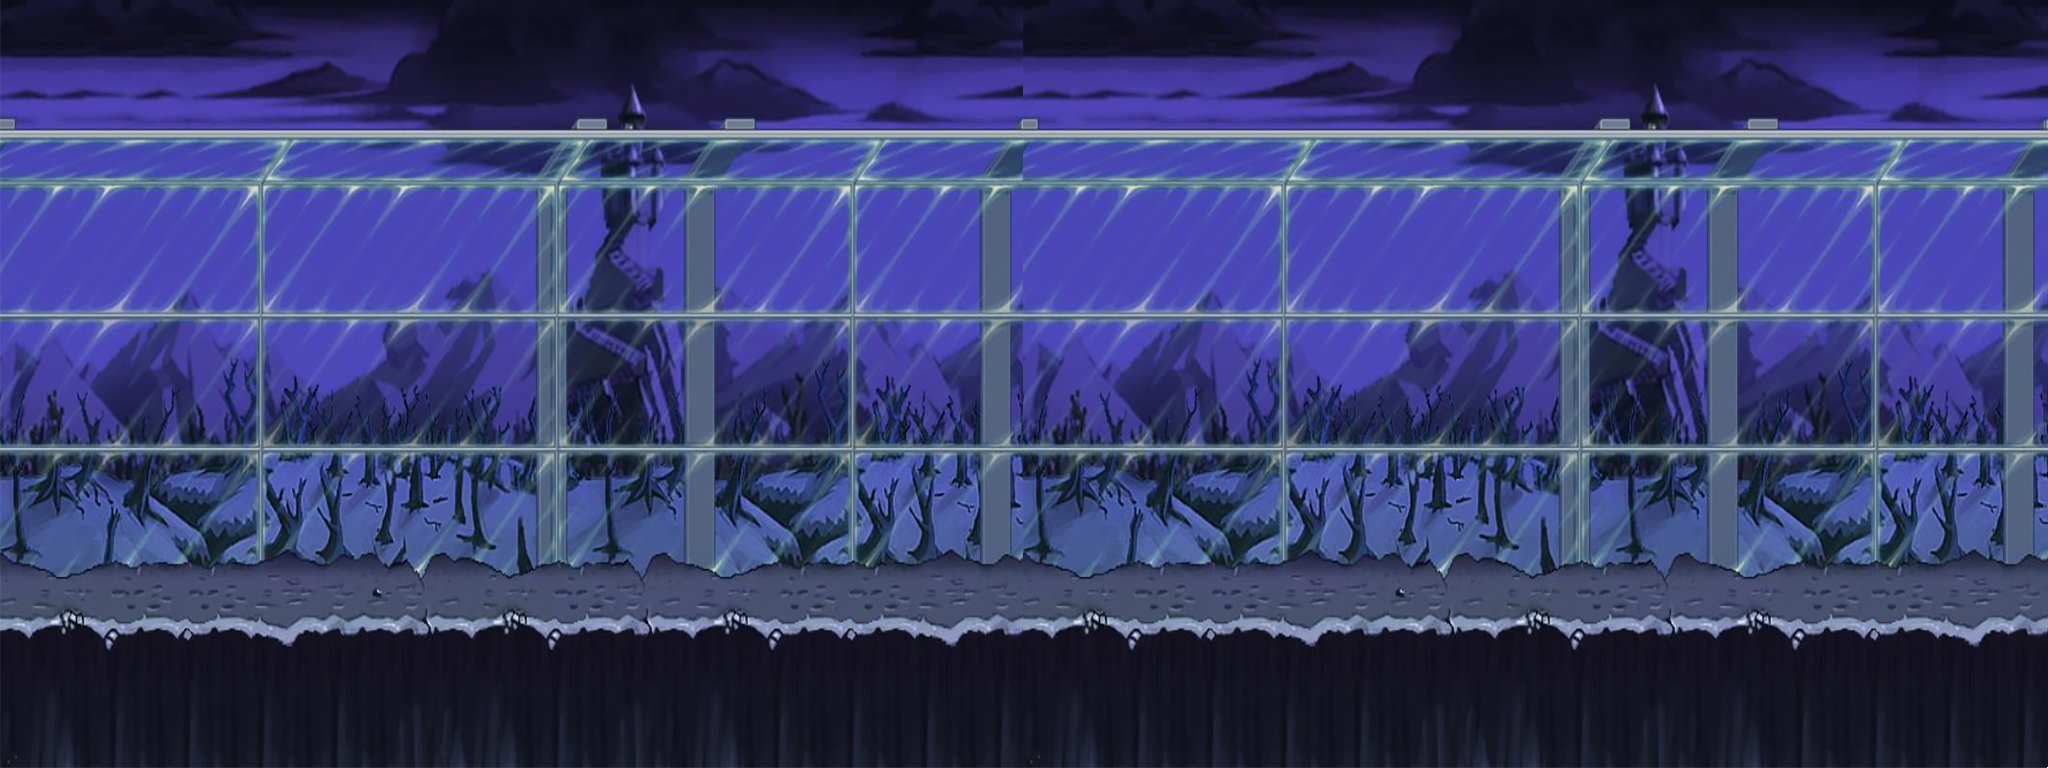
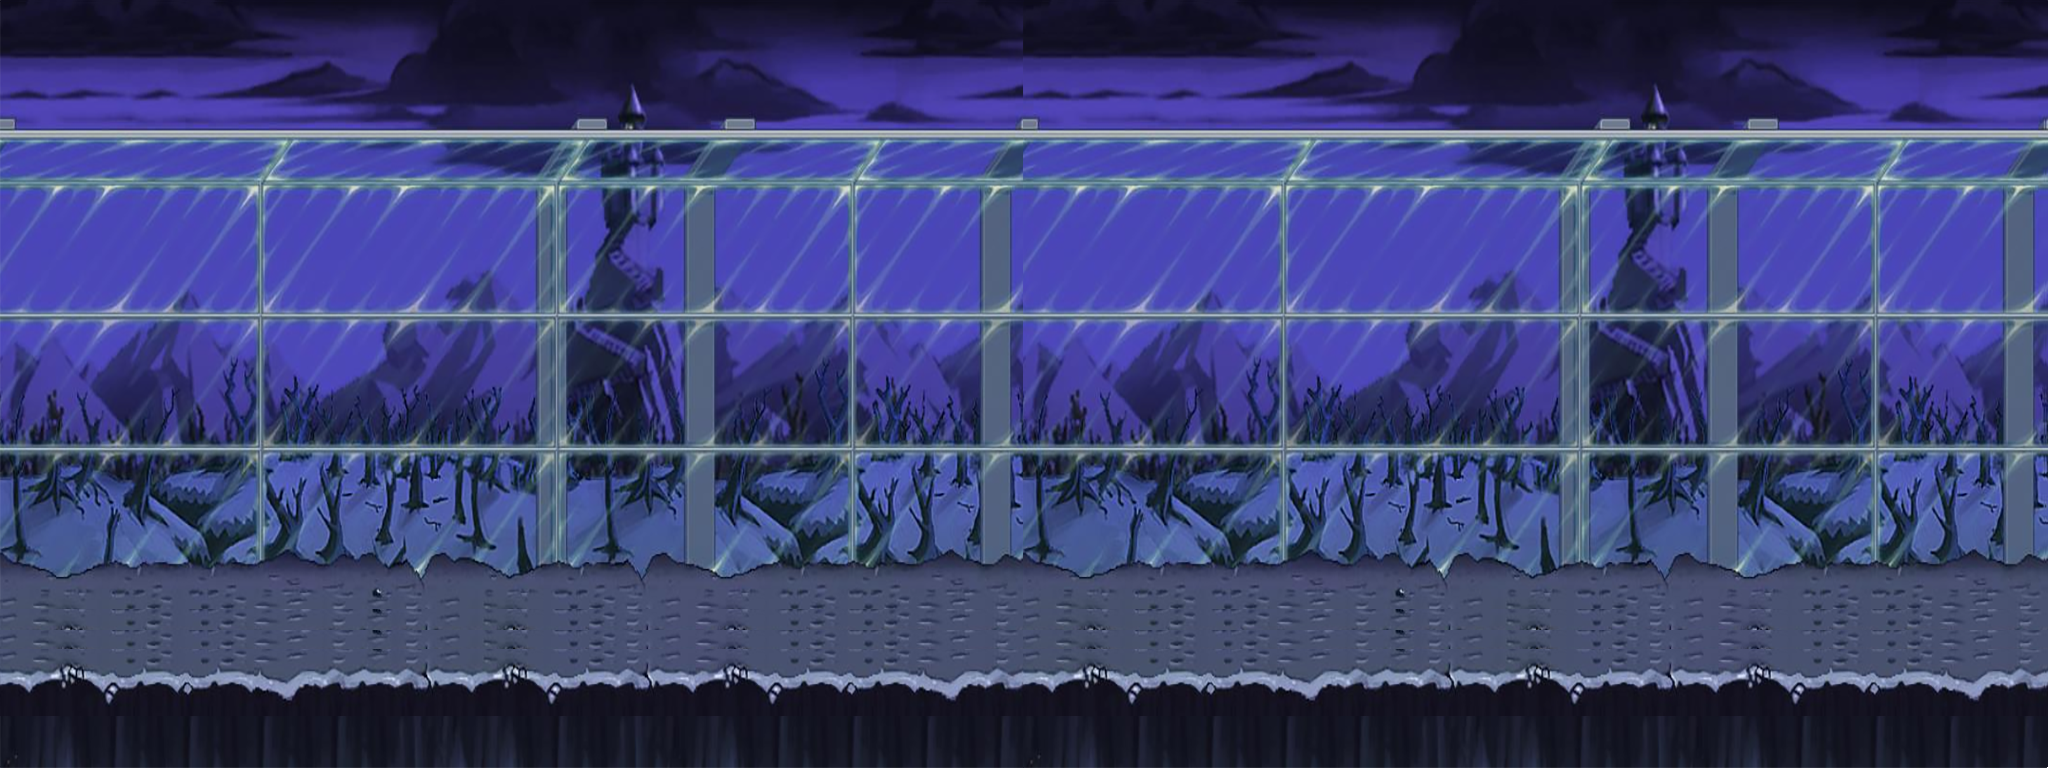
Adicionando segunda fase

Changed region(s): [[0.0, 0.7812, 1.0, 0.9062]]

diff --git a/assets.py b/assets.py
@@ -2,7 +2,7 @@ import pygame
 import os
 from config import ROCKET_WIDTH, ROCKET_HEIGHT, SANDMANN_WIDTH, SANDMANN_HEIGHT, IMG_DIR, SND_DIR, FNT_DIR
 
-BACKGROUND = 'background'
+BACKGROUND = 'background2'
 GROUND = 'ground'
 PLAYER_IMG = 'player_img'
 FLY_IMG = 'fly_img'
@@ -20,7 +20,7 @@ SCORE_FONT_LEADERBOARDS = 'score_font_leaderboards'
 
 def load_assets():
     assets = {}
-    assets[BACKGROUND] = pygame.image.load(os.path.join(IMG_DIR, 'background.jpg')).convert()
+    assets[BACKGROUND] = pygame.image.load(os.path.join(IMG_DIR, 'background2.png')).convert()
     assets[GROUND] = pygame.image.load(os.path.join(IMG_DIR, 'background_ground.png')).convert_alpha()
     assets[PLAYER_IMG] = pygame.image.load(os.path.join(IMG_DIR, 'walk1.png')).convert_alpha()
     assets[FLY_IMG] = pygame.image.load(os.path.join(IMG_DIR, 'flying1.png')).convert_alpha()

diff --git a/final_screen.py b/final_screen.py
@@ -2,7 +2,7 @@ import pygame
 import sys
 import random
 from os import path
-from assets import BACKGROUND, load_assets, SCORE_FONT_FINAL, SCORE_FONT_LEADERBOARDS
+from assets import BACKGROUND, load_assets, SCORE_FONT_FINAL, SCORE_FONT_LEADERBOARDS, GROUND
 from config import IMG_DIR, BLACK, FPS, GAME, QUIT, WIDTH, HEIGHT, FNT_DIR, WHITE
 from game_screen import game_screen
 
@@ -67,7 +67,10 @@ def final_screen(screen,score):
         # A cada loop, redesenha o fundo e os sprites
         screen.fill(BLACK)
         
-        screen.blit(assets[BACKGROUND], background_rect)
+        screen.blit(assets[GROUND], background_rect)
+        
+        if score >= 500:
+            screen.blit(assets[BACKGROUND], background_rect)
 
         screen.blit(background, background_rect)
 

diff --git a/game_screen.py b/game_screen.py
@@ -38,7 +38,7 @@ def game_screen(window):
     while state != DONE:
         clock.tick(FPS)
         score += 1
-        t += 0.000000000001
+        t += 0.000001
         # ----- Trata eventos
         for event in pygame.event.get():
             # ----- Verifica consequências
@@ -92,8 +92,9 @@ def game_screen(window):
         dead = False
         # ---- Gera saídas
         # ---- Faz o background se mover
-        window.blit(assets[BACKGROUND], (0, 0))
         window.blit(assets[GROUND], (ground_scroll, 0))
+        if score >= 500:
+            window.blit(assets[BACKGROUND], (ground_scroll, 0))
         if dead == False:
             # ---- Cria novos Rockets
             #time_now = pygame.time.get_ticks()

diff --git a/sprites.py b/sprites.py
@@ -93,7 +93,7 @@ class Rocket(pygame.sprite.Sprite):
         self.speedx = 10 + 15 * t if t < 1 else 35
     def update(self):
         # Atualizando a posição do foguete
-        self.t += 0.000000000001
+        self.t += 0.000001
         self.speedx = 10 + 15 * self.t if self.t < 1 else 35
         self.rect.x -= self.speedx
         # Se o foguete passar do final da tela, volta para cima e sorteia
